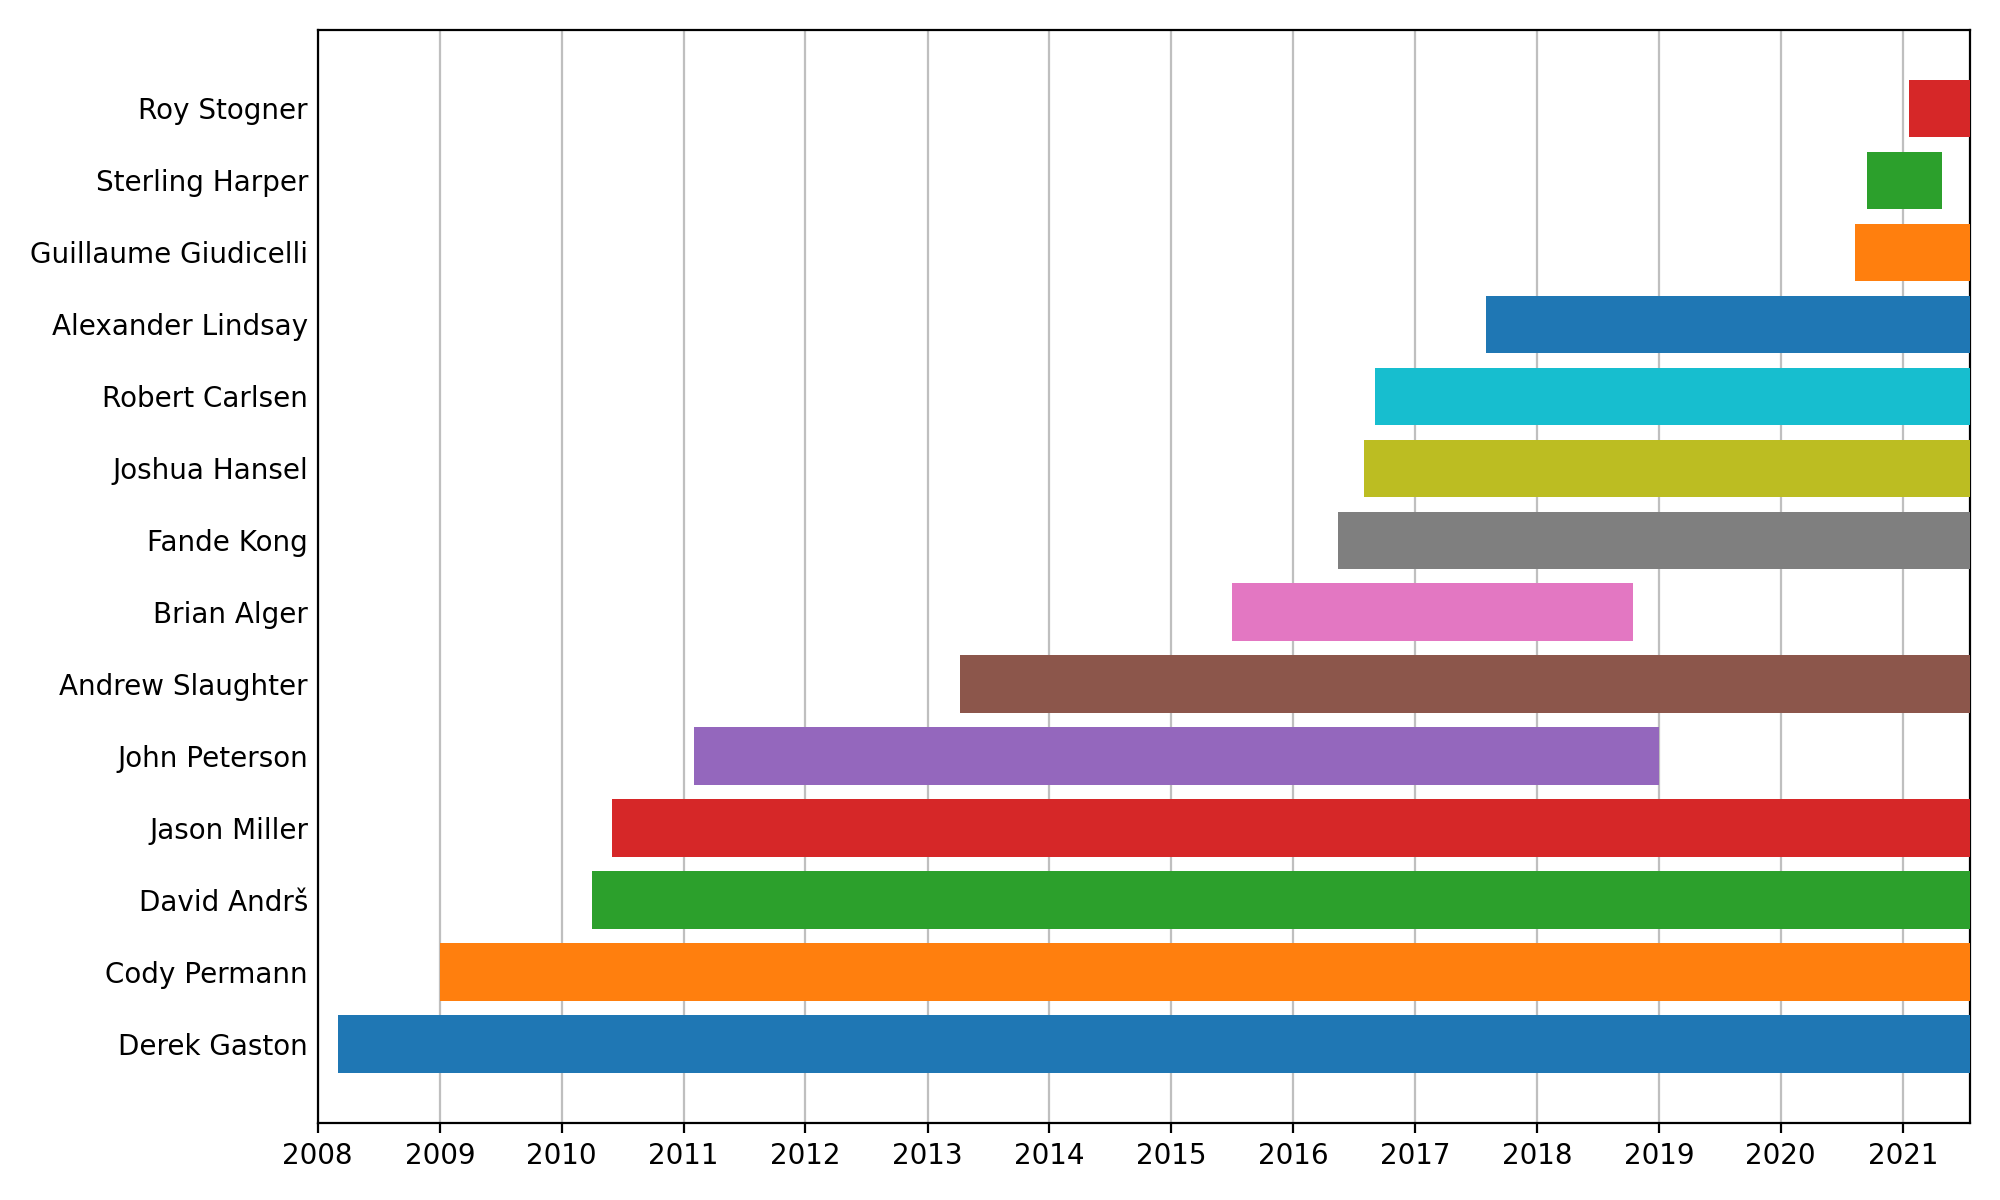
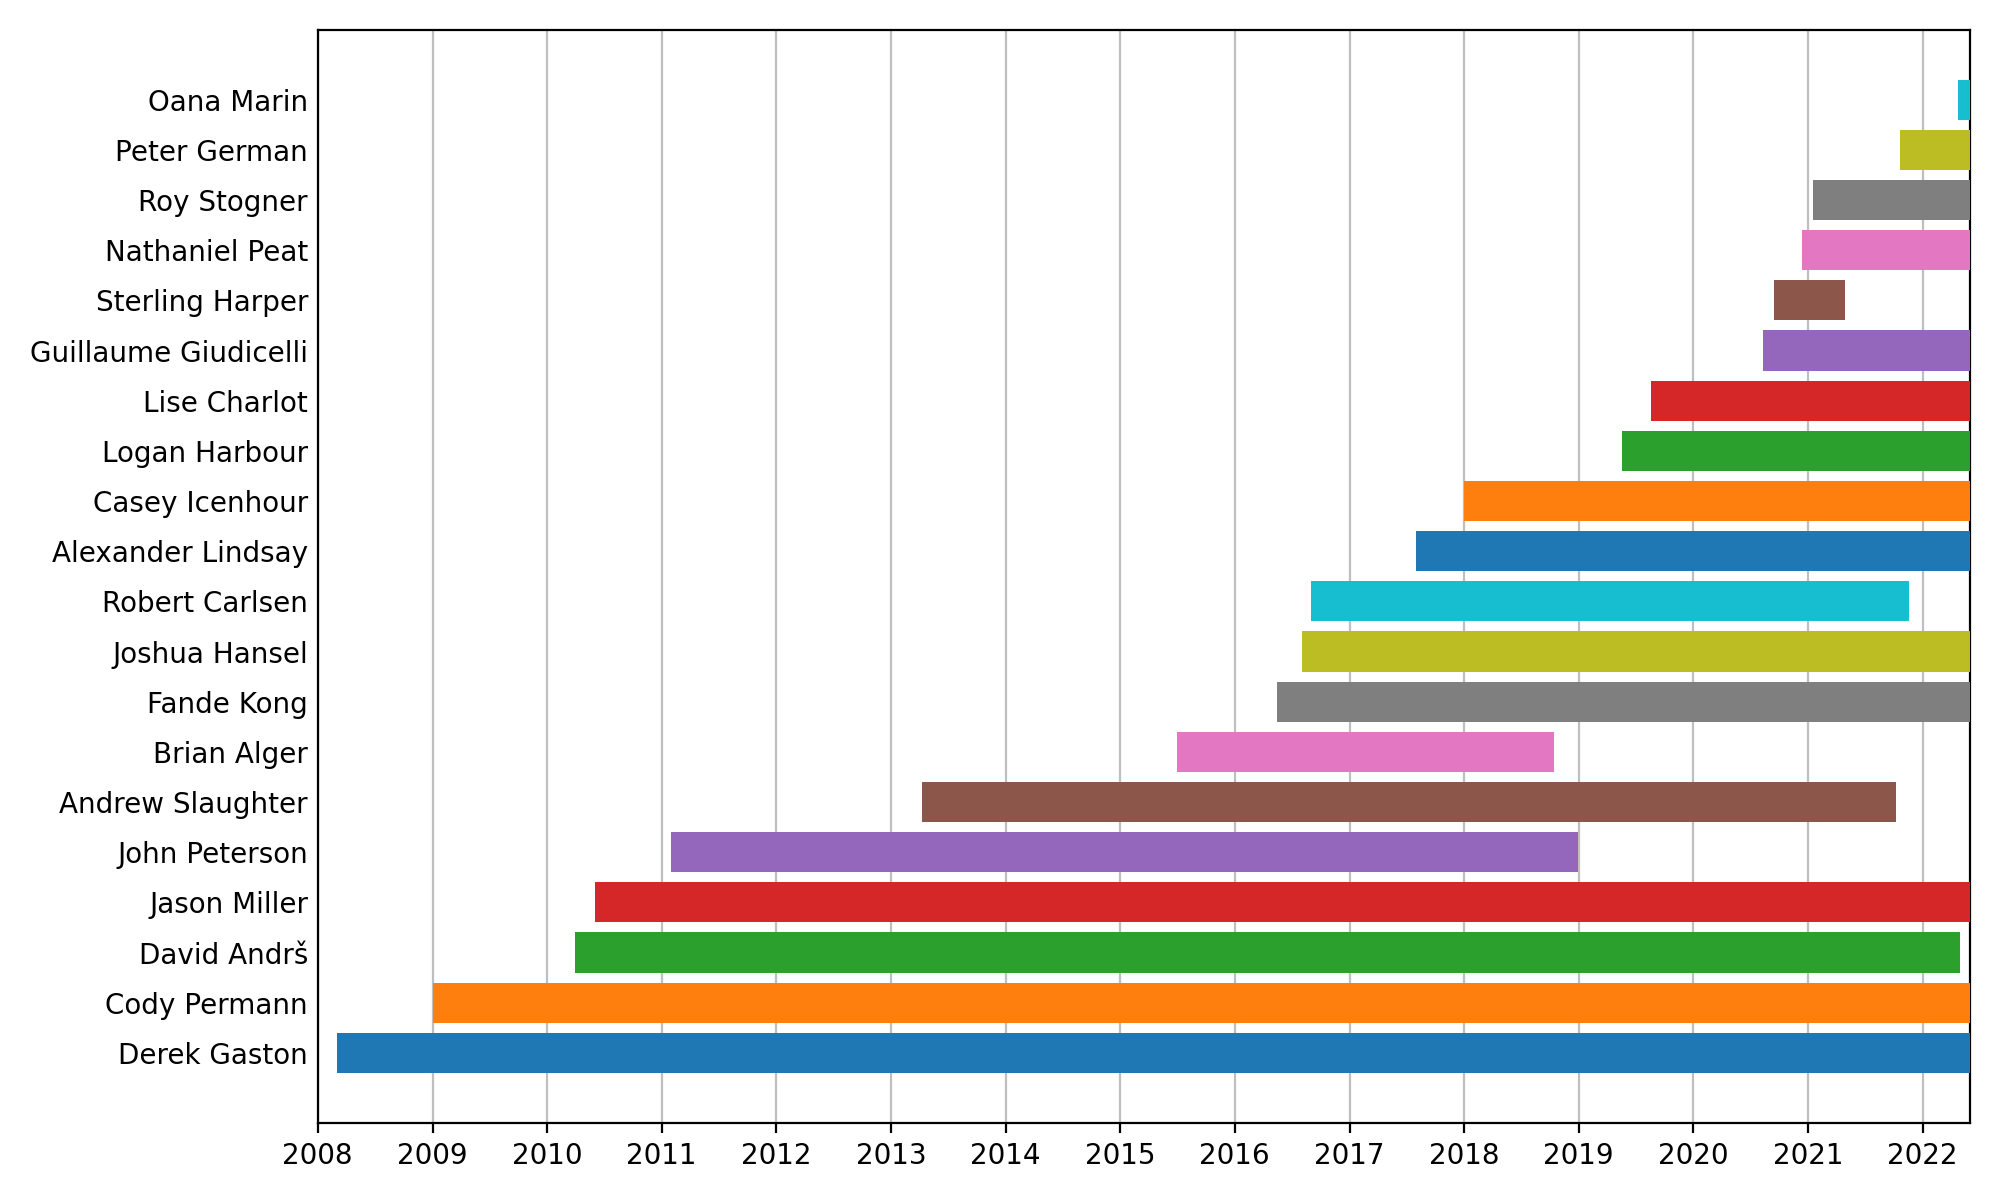
Update moose team

diff --git a/tutorials/darcy_thermo_mech/moose_team.py b/tutorials/darcy_thermo_mech/moose_team.py
@@ -45,19 +45,24 @@ if __name__ == '__main__':
     members = Members()
     members.add('Derek Gaston', date(2008, 3, 1))
     members.add('Cody Permann', date(2009, 1, 1))
-    members.add(u'David Andr\u0161', date(2010, 4, 1))
+    members.add(u'David Andr\u0161', date(2010, 4, 1), date(2022, 4, 29))
     members.add('Jason Miller', date(2010, 6, 1))
     members.add('John Peterson', date(2011, 2, 1), date(2018, 12, 31))
-    members.add('Andrew Slaughter', date(2013, 4, 8))
+    members.add('Andrew Slaughter', date(2013, 4, 8), date(2021, 10, 8))
     members.add('Brian Alger', date(2015, 7, 1), date(2018, 10, 15))
     members.add('Fande Kong', date(2016, 5, 16))
     members.add('Joshua Hansel', date(2016,8,1))
-    members.add('Robert Carlsen', date(2016, 9, 1))
+    members.add('Robert Carlsen', date(2016, 9, 1), date(2021, 11, 18))
     members.add('Alexander Lindsay', date(2017,8,1))
+    members.add('Casey Icenhour', date(2018, 1, 2))
+    members.add('Logan Harbour', date(2019, 5, 20))
+    members.add('Lise Charlot', date(2019, 8, 19))
     members.add('Guillaume Giudicelli', date(2020, 8, 10))
     members.add('Sterling Harper', date(2020, 9, 14), date(2021, 4, 29))
+    members.add('Nathaniel Peat', date(2020, 12, 14))
     members.add('Roy Stogner', date(2021, 1, 18))
-
+    members.add('Peter German', date(2021, 10, 21))
+    members.add('Oana Marin', date(2022, 4, 25))
 
     for i, mem in enumerate(members):
         plt.barh(i, mem.days, left=mem.offset, zorder=3)
